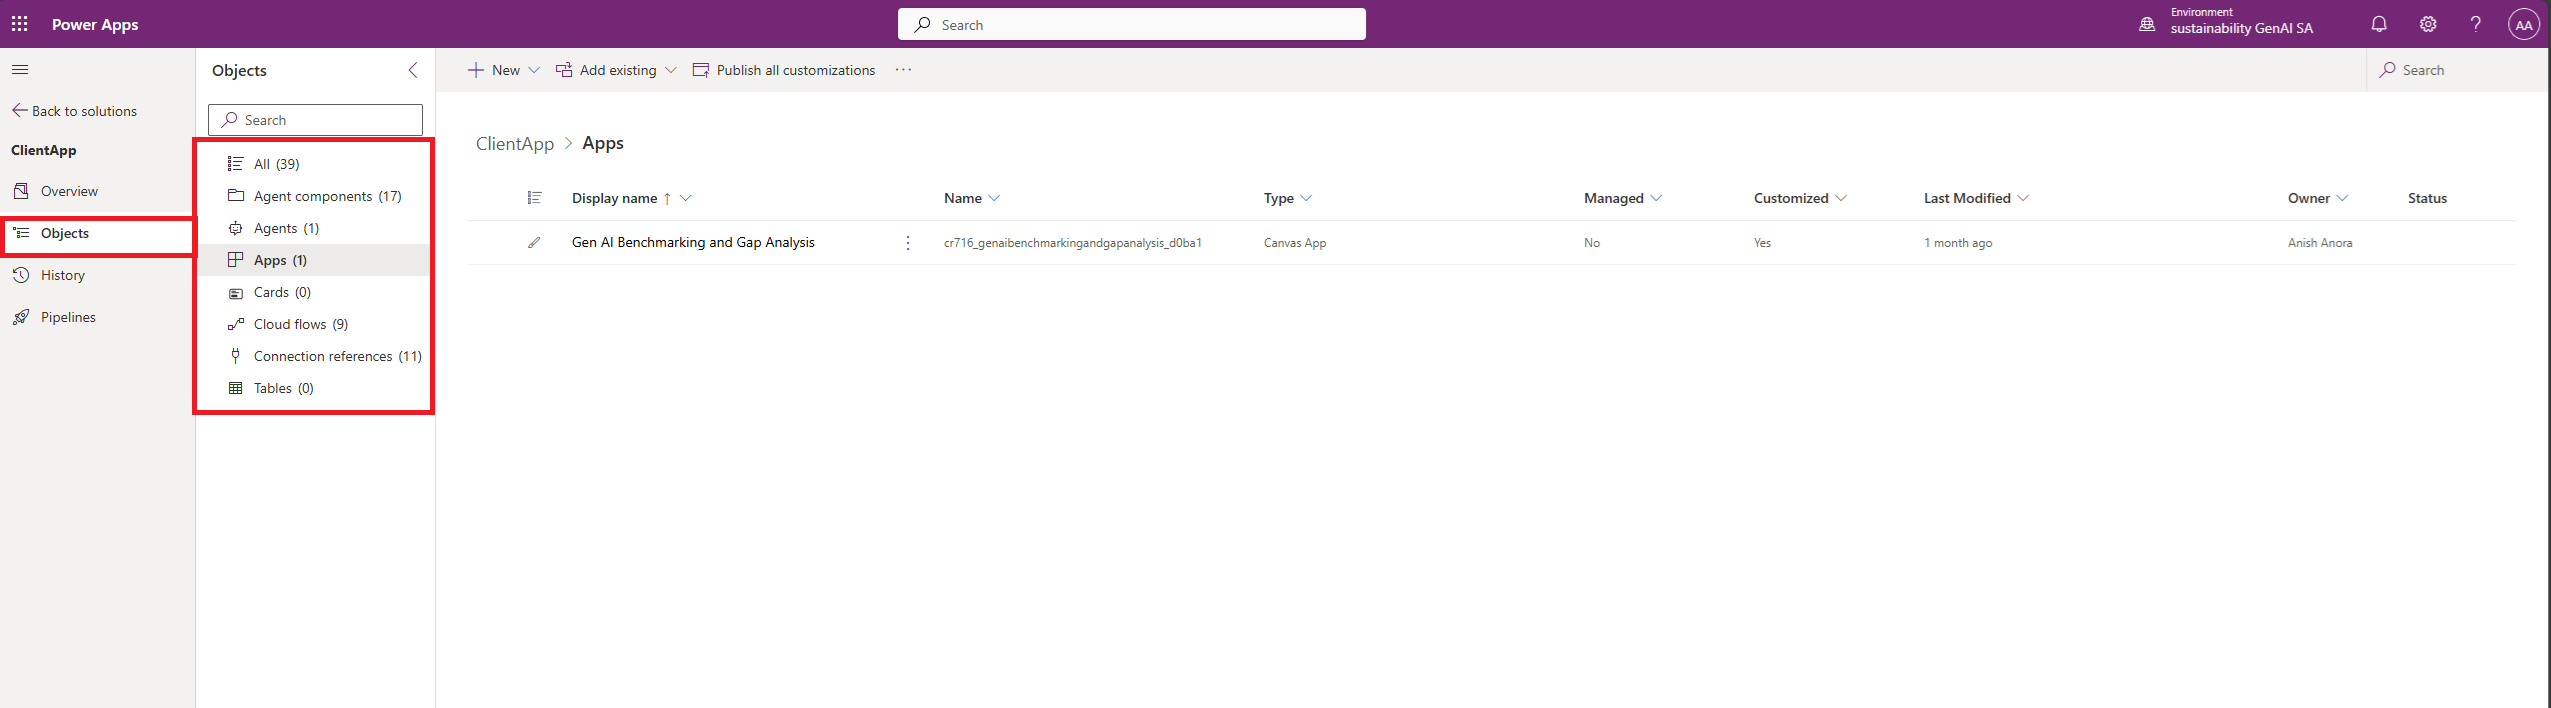
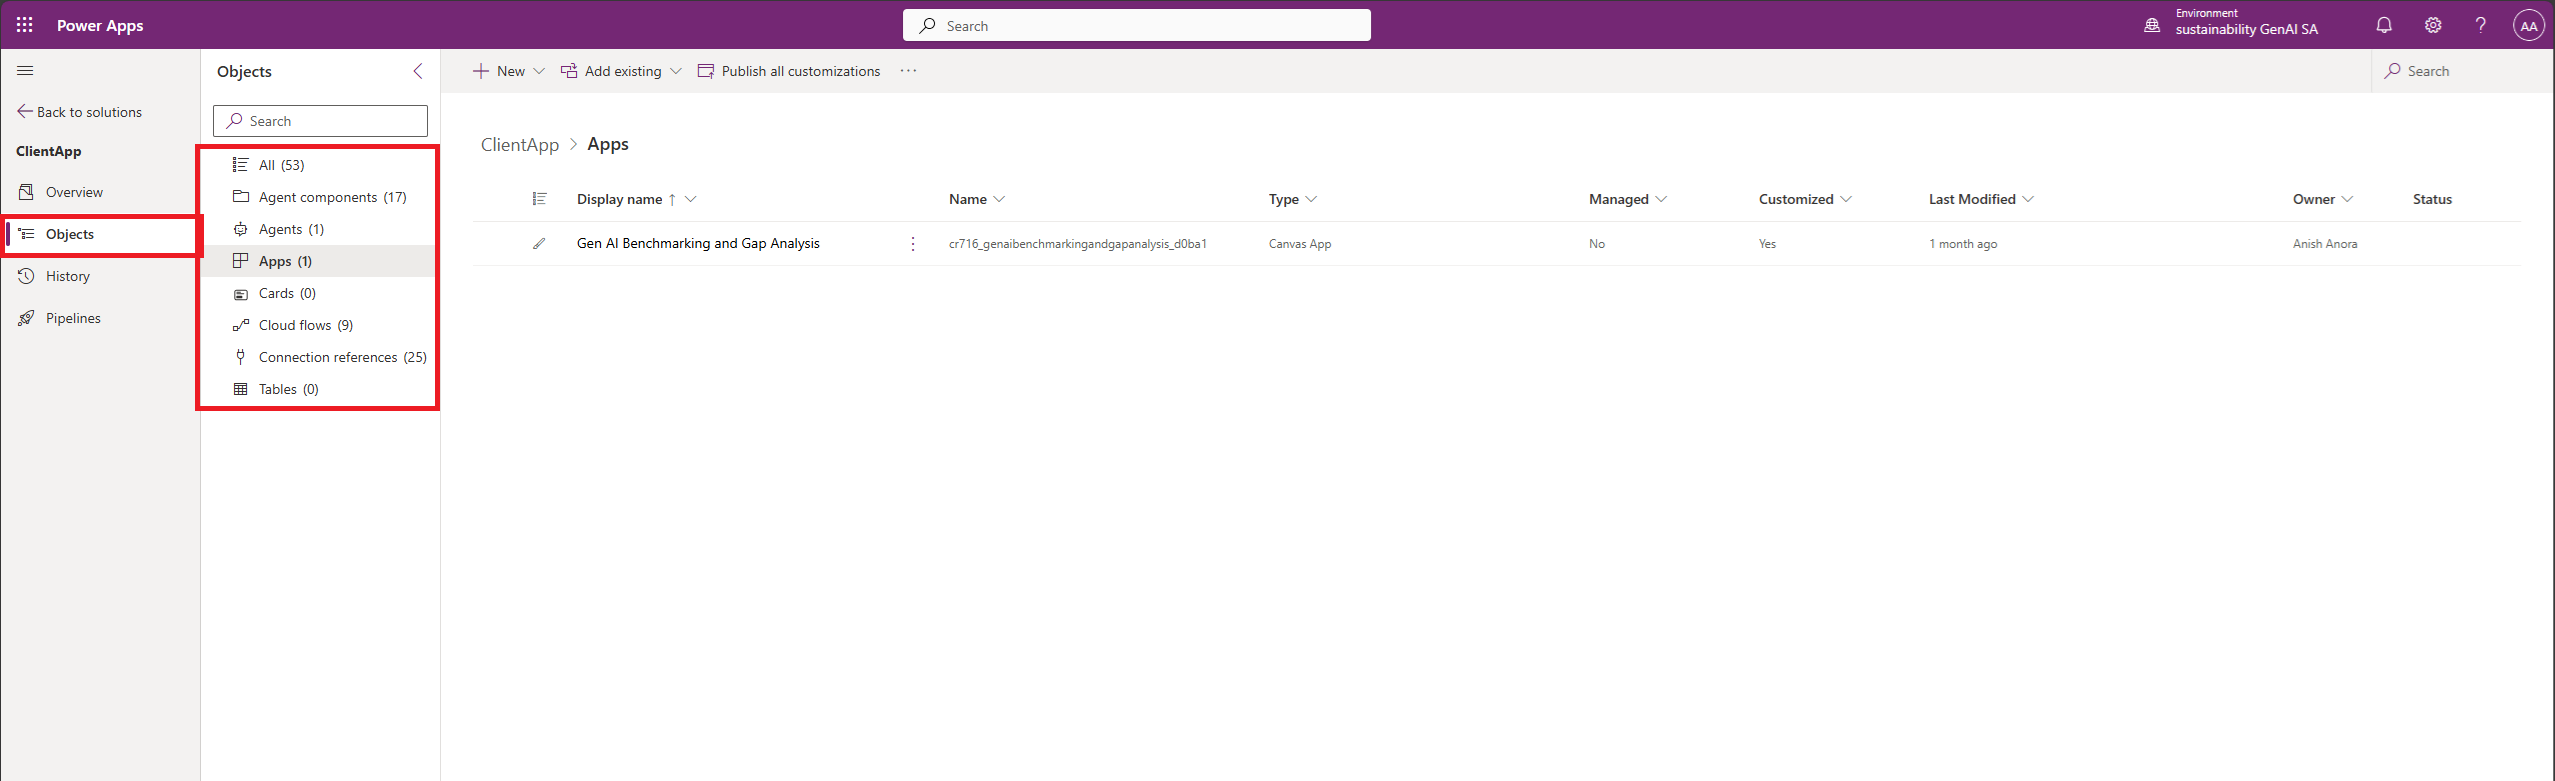
readme updatesandzipupdate

diff --git a/Deployment/DeployPowerPlatformClient.md b/Deployment/DeployPowerPlatformClient.md
@@ -45,6 +45,7 @@ Before setting up any components of the solution, we will need to import the sol
 
 ![import power platform solution](./images/client/import-solution-in-powerplatform.png)
 
+2. Upon import, all required connections should automatically be established, if any connection is not established automatically, click on the 3 ellipsis and click 'Add new connection'.
 2. This will import the Power Platform solution in your environment. To validate everything got deployed, go to the imported solution and the number of components should be the same as below.
 
 ![validate components](./images/client/validate-imported-components.png)
